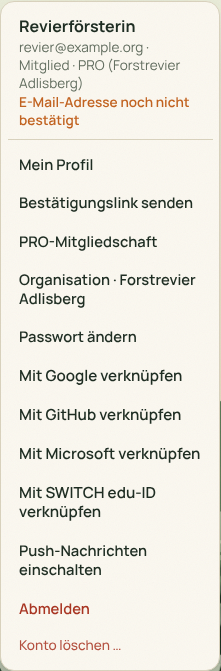
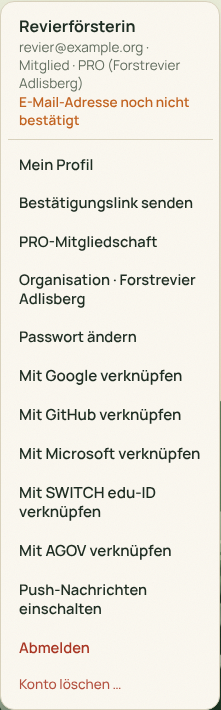
AGOV and private_key_jwt for OpenID Connect providers
- Provider "agov" (AGOV_ISSUER, AGOV_CLIENT_ID): an OpenID Connect provider
  with endpoints from discovery; off without an issuer, which comes from
  the registration in AGOV connect.
- Any OpenID Connect provider (edu-ID, AGOV, oidc) can authenticate with a
  private key instead of a secret (…_PRIVATE_KEY_FILE, PEM, RSA or EC
  P-256): a signed client assertion (RFC 7523, RS256/ES256, 60 s, jti) at
  the token endpoint. The public keys are published at
  /api/auth/jwks.json (kid = RFC 7638 thumbprint). A provider whose
  discovery does not offer private_key_jwt stops the flow with a message.
- …_ACR_VALUES requests an authentication quality; it is not enforced,
  since nothing in the app depends on it.
- Tests with a fake provider that verifies the assertion against the
  published JWKS (EC and RSA), acr_values, and the refusal cases; docs
  (AGOV setup with eligibility under EMBAG and what is still open, env
  variables, API, functions, privacy, roadmap, README) and screenshots.

Claude-Session: https://claude.ai/code/session_01W6iS2cPESEYEc9zQfDGaR4

diff --git a/src/oauth.js b/src/oauth.js
@@ -21,6 +21,15 @@
  *   ("nOAuth"): the address counts as verified only with the optional claim
  *   `xms_edov` (domain owner verified), which the app registration has to
  *   add to the ID token together with `email`.
+ * - AGOV (authentication service of Swiss authorities): an OpenID Connect
+ *   provider like the generic one, with its issuer from the configuration.
+ *
+ * Instead of a client secret, any OpenID Connect provider can take a private
+ * key (`privateKey`, PEM, RSA or EC P-256): the app then authenticates at the
+ * token endpoint with a signed assertion (`private_key_jwt`, RFC 7523) and
+ * publishes the public keys at /api/auth/jwks.json for the registration.
+ * `acrValues` asks for an authentication quality (`acr_values`); it is
+ * requested, not enforced, since nothing in the app depends on it.
  *
  * A provider is enabled when its client ID and secret are configured. The
  * `state` and the PKCE verifier travel in a short-lived httpOnly cookie bound
@@ -88,6 +97,8 @@ Object.assign(PROVIDERS, {
   eduid: { label: 'SWITCH edu-ID', issuer: 'https://login.eduid.ch/', scope: 'openid email profile', profile: oidcProfile },
   // Any further provider, e.g. the Microsoft account of an organisation or a Keycloak (issuer and label from the config).
   oidc: { label: 'OpenID Connect', scope: 'openid email profile', profile: oidcProfile },
+  // AGOV, the login of Swiss authorities: the issuer comes from the registration in AGOV connect.
+  agov: { label: 'AGOV', scope: 'openid profile email', profile: oidcProfile },
 });
 
 const truthy = (v) => v === true || v === 1 || v === '1' || v === 'true';
@@ -132,6 +143,32 @@ PROVIDERS.microsoft = {
 };
 
 const base64url = (buf) => Buffer.from(buf).toString('base64url');
+
+/** A signing key from PEM: algorithm, public JWK with its RFC 7638 thumbprint as `kid`. */
+function signingKey(pem) {
+  const key = crypto.createPrivateKey(pem);
+  const jwk = crypto.createPublicKey(key).export({ format: 'jwk' });
+  let alg;
+  if (jwk.kty === 'RSA') alg = 'RS256';
+  else if (jwk.kty === 'EC' && jwk.crv === 'P-256') alg = 'ES256';
+  else throw new Error('Privater Schlüssel: nur RSA oder EC P-256');
+  const members = jwk.kty === 'RSA' ? { e: jwk.e, kty: jwk.kty, n: jwk.n } : { crv: jwk.crv, kty: jwk.kty, x: jwk.x, y: jwk.y };
+  const kid = base64url(crypto.createHash('sha256').update(JSON.stringify(members)).digest());
+  return { key, alg, publicJwk: { ...members, kid, alg, use: 'sig' } };
+}
+
+/** A client assertion for the token endpoint (private_key_jwt). */
+function clientAssertion(provider, audience) {
+  const { key, alg, publicJwk } = provider.signing;
+  const t = Math.floor(Date.now() / 1000);
+  const header = base64url(JSON.stringify({ alg, kid: publicJwk.kid, typ: 'JWT' }));
+  const payload = base64url(JSON.stringify({
+    iss: provider.clientId, sub: provider.clientId, aud: audience, jti: base64url(crypto.randomBytes(16)), iat: t, exp: t + 60,
+  }));
+  const input = `${header}.${payload}`;
+  const signature = crypto.sign('sha256', Buffer.from(input), alg === 'ES256' ? { key, dsaEncoding: 'ieee-p1363' } : key);
+  return `${input}.${base64url(signature)}`;
+}
 const sameIssuer = (a, b) => String(a || '').replace(/\/+$/, '') === String(b || '').replace(/\/+$/, '');
 
 /**
@@ -142,9 +179,14 @@ const sameIssuer = (a, b) => String(a || '').replace(/\/+$/, '') === String(b ||
 function createOAuth({ providers = {}, publicUrl = null, fetchImpl = fetch } = {}) {
   const enabled = {};
   for (const [id, conf] of Object.entries(providers)) {
-    if (!PROVIDERS[id] || !conf?.clientId || !conf?.clientSecret) continue;
+    if (!PROVIDERS[id] || !conf?.clientId || !(conf.clientSecret || conf.privateKey)) continue;
     const p = { ...PROVIDERS[id], ...Object.fromEntries(Object.entries(conf).filter(([, v]) => v)), id };
     if (p.profile === oidcProfile && !p.issuer && !p.authorizeUrl) continue; // a generic provider needs its issuer
+    if (p.privateKey) {
+      if (p.profile !== oidcProfile) throw new Error(`${p.label}: Anmeldung mit Schlüssel nur bei OpenID-Connect-Anbietern`);
+      p.signing = signingKey(p.privateKey);
+    }
+    if (p.acrValues) p.extraParams = { ...p.extraParams, acr_values: p.acrValues };
     if (p.urls && !conf.authorizeUrl) Object.assign(p, p.urls(p));
     enabled[id] = p;
   }
@@ -165,6 +207,9 @@ function createOAuth({ providers = {}, publicUrl = null, fetchImpl = fetch } = {
           throw new Error(`${provider.label}: unvollständige Konfiguration des Anbieters`);
         }
         const methods = d.token_endpoint_auth_methods_supported;
+        if (provider.signing && Array.isArray(methods) && !methods.includes('private_key_jwt')) {
+          throw new Error(`${provider.label} unterstützt keine Anmeldung mit Schlüssel (private_key_jwt)`);
+        }
         return {
           ...provider,
           authorizeUrl: d.authorization_endpoint,
@@ -189,6 +234,9 @@ function createOAuth({ providers = {}, publicUrl = null, fetchImpl = fetch } = {
   }
 
   return {
+    /** Public keys for private_key_jwt, to register with the providers (JWKS). */
+    jwks: () => ({ keys: Object.values(enabled).filter((p) => p.signing).map((p) => p.signing.publicJwk) }),
+
     /** Public list for the login dialog. */
     list: () => Object.values(enabled).map((p) => ({ id: p.id, label: p.label })),
     get: (id) => (Object.hasOwn(enabled, id) ? enabled[id] : null),
@@ -237,7 +285,10 @@ function createOAuth({ providers = {}, publicUrl = null, fetchImpl = fetch } = {
         code_verifier: verifier,
       };
       const headers = { 'Content-Type': 'application/x-www-form-urlencoded', Accept: 'application/json', 'User-Agent': 'MyForrest' };
-      if (ep.basicAuth) {
+      if (ep.signing) {
+        form.client_assertion_type = 'urn:ietf:params:oauth:client-assertion-type:jwt-bearer';
+        form.client_assertion = clientAssertion(ep, ep.tokenUrl);
+      } else if (ep.basicAuth) {
         const enc = (v) => encodeURIComponent(v);
         headers.Authorization = `Basic ${Buffer.from(`${enc(provider.clientId)}:${enc(provider.clientSecret)}`).toString('base64')}`;
       } else {
@@ -259,16 +310,22 @@ function createOAuth({ providers = {}, publicUrl = null, fetchImpl = fetch } = {
  * Provider configuration from the environment: GOOGLE_, GITHUB_, MICROSOFT_,
  * EDUID_ and OIDC_CLIENT_ID / _CLIENT_SECRET; the generic provider also takes
  * OIDC_ISSUER and OIDC_LABEL (EDUID_ISSUER may point to a test system), and
- * MICROSOFT_TENANT limits the accounts (default 'common').
+ * MICROSOFT_TENANT limits the accounts (default 'common'). AGOV_ (and the
+ * other OpenID Connect providers) may take _PRIVATE_KEY_FILE (PEM) instead of
+ * the secret, and _ACR_VALUES.
  */
 function providersFromEnv(env = process.env) {
   const out = {};
   for (const id of Object.keys(PROVIDERS)) {
     const key = id.toUpperCase();
-    if (env[`${key}_CLIENT_ID`] && env[`${key}_CLIENT_SECRET`]) {
+    const keyFile = env[`${key}_PRIVATE_KEY_FILE`];
+    const privateKey = keyFile ? require('node:fs').readFileSync(keyFile, 'utf8') : undefined;
+    if (env[`${key}_CLIENT_ID`] && (env[`${key}_CLIENT_SECRET`] || privateKey)) {
       out[id] = {
         clientId: env[`${key}_CLIENT_ID`],
-        clientSecret: env[`${key}_CLIENT_SECRET`],
+        clientSecret: env[`${key}_CLIENT_SECRET`] || undefined,
+        privateKey,
+        acrValues: env[`${key}_ACR_VALUES`] || undefined,
         issuer: env[`${key}_ISSUER`] || undefined,
         label: env[`${key}_LABEL`] || undefined,
         tenant: env[`${key}_TENANT`] || undefined,

diff --git a/test/oauth.test.js b/test/oauth.test.js
@@ -353,3 +353,83 @@ test('Microsoft with a fixed tenant accepts only accounts of that organisation',
     assert.match((await browser(base).signIn('microsoft', 'outlook', challenges)).searchParams.get('auth_error'), /andere Anwendung oder Organisation/);
   }, { providers, fetch: fakeMicrosoft(claims) });
 });
+
+/**
+ * A fake AGOV-like provider that takes only private_key_jwt: it checks the
+ * assertion's signature against the JWKS the app publishes, its audience and lifetime.
+ */
+function fakeKeyProvider(issuer, jwksOf) {
+  const json = (body, status = 200) => new Response(JSON.stringify(body), { status, headers: { 'Content-Type': 'application/json' } });
+  const host = new URL(issuer).origin;
+  return (accounts, challenges) => async (url, init = {}) => {
+    const u = new URL(url);
+    if (u.href === `${issuer}/.well-known/openid-configuration`) {
+      return json({
+        issuer, authorization_endpoint: `${host}/authorize`, token_endpoint: `${host}/token`, userinfo_endpoint: `${host}/userinfo`,
+        token_endpoint_auth_methods_supported: ['private_key_jwt'],
+      });
+    }
+    if (u.pathname === '/token') {
+      const body = new URLSearchParams(init.body);
+      if (body.has('client_secret') || body.get('client_assertion_type') !== 'urn:ietf:params:oauth:client-assertion-type:jwt-bearer') {
+        return json({ error: 'invalid_client' }, 401);
+      }
+      const [h, p, sig] = body.get('client_assertion').split('.');
+      const header = JSON.parse(Buffer.from(h, 'base64url'));
+      const claims = JSON.parse(Buffer.from(p, 'base64url'));
+      const jwk = (await jwksOf()).keys.find((k) => k.kid === header.kid);
+      const ok = jwk && crypto.verify('sha256', Buffer.from(`${h}.${p}`),
+        header.alg === 'ES256' ? { key: crypto.createPublicKey({ key: jwk, format: 'jwk' }), dsaEncoding: 'ieee-p1363' } : crypto.createPublicKey({ key: jwk, format: 'jwk' }),
+        Buffer.from(sig, 'base64url'));
+      const now = Date.now() / 1000;
+      if (!ok || claims.iss !== 'agov-client' || claims.sub !== 'agov-client' || claims.aud !== `${host}/token` || !(claims.exp > now && claims.exp <= now + 120) || !claims.jti) {
+        return json({ error: 'invalid_client' }, 401);
+      }
+      const challenge = crypto.createHash('sha256').update(body.get('code_verifier') || '').digest('base64url');
+      if (!accounts[body.get('code')] || !challenges.has(challenge)) return json({ error: 'invalid_grant' }, 400);
+      return json({ access_token: `at-${body.get('code')}`, token_type: 'Bearer' });
+    }
+    if (u.pathname === '/userinfo') {
+      const a = accounts[String(init.headers?.Authorization || '').replace('Bearer at-', '')];
+      return a ? json({ sub: a.sub, email: a.email, email_verified: a.verified, given_name: a.given, family_name: a.family }) : json({}, 401);
+    }
+    return json({}, 404);
+  };
+}
+
+for (const [type, opts] of [['ec', { namedCurve: 'P-256' }], ['rsa', { modulusLength: 2048 }]]) {
+  test(`AGOV with private_key_jwt (${type}): signed assertion, published JWKS, acr_values`, async () => {
+    const { privateKey } = crypto.generateKeyPairSync(type, opts);
+    const pem = privateKey.export({ type: 'pkcs8', format: 'pem' });
+    const issuer = 'https://idp.agov.example';
+    let base;
+    const jwksOf = async () => (await fetch(`${base}/api/auth/jwks.json`)).json();
+    const providers = { agov: { clientId: 'agov-client', privateKey: pem, issuer, acrValues: 'urn:example:acr:hoch' } };
+    await withServer(EDU, async (b0, challenges) => {
+      base = b0;
+      const jwks = await jwksOf();
+      assert.equal(jwks.keys.length, 1);
+      assert.equal(jwks.keys[0].alg, type === 'ec' ? 'ES256' : 'RS256');
+      assert.ok(!('d' in jwks.keys[0]), 'only the public key');
+      const b = browser(base);
+      assert.ok((await b.me()).providers.some((p) => p.id === 'agov' && p.label === 'AGOV'));
+      const start = await b.req('/api/auth/oauth/agov');
+      assert.equal(new URL(start.headers.get('location')).searchParams.get('acr_values'), 'urn:example:acr:hoch');
+      assert.equal((await b.signIn('agov', 'lea', challenges)).searchParams.get('auth'), 'created');
+      assert.equal((await b.me()).user.name, 'Lea Muster');
+    }, { providers, fetch: fakeKeyProvider(issuer, jwksOf) });
+  });
+}
+
+test('without an issuer AGOV stays off; a key is refused where the provider does not take one', async () => {
+  const { privateKey } = crypto.generateKeyPairSync('ec', { namedCurve: 'P-256' });
+  const pem = privateKey.export({ type: 'pkcs8', format: 'pem' });
+  await withServer(EDU, async (base) => {
+    assert.ok(!(await browser(base).me()).providers.some((p) => p.id === 'agov'));
+  }, { providers: { agov: { clientId: 'agov-client', privateKey: pem } } });
+  // edu-ID's fake offers only client_secret_basic: with a key the flow stops with a message.
+  await withServer(EDU, async (base) => {
+    const start = await browser(base).req('/api/auth/oauth/eduid');
+    assert.match(new URL(start.headers.get('location'), base).searchParams.get('auth_error'), /keine Anmeldung mit Schlüssel/);
+  }, { providers: { eduid: { clientId: 'eid', privateKey: pem } }, fetch: fakeOidc('https://login.eduid.ch/') });
+});

diff --git a/scripts/screenshots/demo-server.js b/scripts/screenshots/demo-server.js
@@ -104,12 +104,13 @@ const app = createApp({
   dataDir: path.join(process.env.DEMO_DIR || path.join(__dirname, '.demo'), 'data'),
   weatherFetch,
   tileOptions: { precompute: false },
-  // Sign-in buttons for the screenshots; the demo never talks to Google, GitHub, Microsoft or Switch.
+  // Sign-in buttons for the screenshots; the demo never talks to Google, GitHub, Microsoft, Switch or AGOV.
   oauthProviders: {
     google: { clientId: 'demo', clientSecret: 'demo' },
     github: { clientId: 'demo', clientSecret: 'demo' },
     microsoft: { clientId: 'demo', clientSecret: 'demo' },
     eduid: { clientId: 'demo', clientSecret: 'demo' },
+    agov: { clientId: 'demo', clientSecret: 'demo', issuer: 'https://agov.example' },
   },
   mailer: { send: async () => ({ sent: true }) },
 });

diff --git a/src/routes/accounts.js b/src/routes/accounts.js
@@ -647,6 +647,11 @@ module.exports = function registerAccounts(app, ctx) {
   });
   const backTo = (res, params) => res.redirect(303, `/?${new URLSearchParams(params)}`);
 
+  // Public keys for providers that authenticate the app by a signed assertion (private_key_jwt).
+  app.get('/api/auth/jwks.json', (req, res) => {
+    res.set('Cache-Control', 'public, max-age=300').json(oauth.jwks());
+  });
+
   app.get('/api/auth/oauth/:provider', async (req, res) => {
     const provider = oauth.get(req.params.provider);
     if (!provider) return fail(res, 404, 'Diese Anmeldung ist nicht eingerichtet');

diff --git a/docs/installation.md b/docs/installation.md
@@ -52,6 +52,8 @@ trotzdem am richtigen Spot, nur ohne Overlay.
 | `GITHUB_CLIENT_ID`, `GITHUB_CLIENT_SECRET` | – | Aktiviert „Mit GitHub anmelden“ |
 | `MICROSOFT_CLIENT_ID`, `MICROSOFT_CLIENT_SECRET` | – | Aktiviert „Mit Microsoft anmelden“; `MICROSOFT_TENANT` (Standard `common`) schränkt ein: `consumers` (nur private Konten), `organizations` oder die ID eines Tenants |
 | `EDUID_CLIENT_ID`, `EDUID_CLIENT_SECRET` | – | Aktiviert „Mit SWITCH edu-ID anmelden“; `EDUID_ISSUER` (Standard `https://login.eduid.ch/`) für ein Testsystem |
+| `AGOV_ISSUER`, `AGOV_CLIENT_ID`, `AGOV_PRIVATE_KEY_FILE` | – | Aktiviert „Mit AGOV anmelden“ (siehe [unten](#agov)); `AGOV_ACR_VALUES` fordert eine Authentifizierungsqualität an |
+| `…_PRIVATE_KEY_FILE` | – | Bei allen OpenID-Connect-Diensten (`EDUID_`, `OIDC_`, `AGOV_`): privater Schlüssel (PEM, RSA oder EC P-256) statt Client-Secret, Anmeldung per `private_key_jwt` |
 | `OIDC_ISSUER`, `OIDC_CLIENT_ID`, `OIDC_CLIENT_SECRET`, `OIDC_LABEL` | – | Ein weiterer OpenID-Connect-Dienst (z. B. Microsoft Entra ID einer Organisation, Keycloak) mit eigener Beschriftung |
 | `ROUTER_URL`       | `https://brouter.de/brouter` | Routing-Dienst im Format von [BRouter](https://brouter.de) für den Wege-Magnet beim Zeichnen von Touren; leer (`ROUTER_URL=`) = aus, dann gerade Linien. Für den Betrieb einen [eigenen BRouter](../deploy/brouter/README.md) nehmen, z. B. `http://brouter:17777/brouter` |
 | `PRO_VALID_DAYS`   | `365`    | Wie lange eine PRO-Verifizierung gilt, bevor sie bestätigt werden muss |
@@ -85,7 +87,8 @@ MAIL_FROM='MyForrest <wald@example.org>' npm start
 ## Anmelden über Google, GitHub, Microsoft und SWITCH edu-ID
 
 Neben E-Mail und Passwort kann man sich mit einem Google-, GitHub- oder SWITCH-edu-ID-Konto anmelden oder
-registrieren, mit einem Microsoft-Konto und mit einem weiteren Dienst, der OpenID Connect spricht.
+registrieren, mit einem Microsoft-Konto, über AGOV (Behörden, siehe [unten](#agov)) und mit einem weiteren
+Dienst, der OpenID Connect spricht.
 Ein Anbieter erscheint im Anmeldedialog, sobald Client-ID und Secret gesetzt sind. Die Rücksprungadresse
 lautet `<PUBLIC_URL>/api/auth/oauth/<anbieter>/callback`; ohne `PUBLIC_URL` wird sie aus der Anfrage
 gebildet. Sie muss beim Anbieter genau so eingetragen sein.
@@ -125,6 +128,38 @@ EDUID_CLIENT_ID=… EDUID_CLIENT_SECRET=… npm start
 ```
 
 Für lokale Versuche geht auch `http://localhost:3000` als Rücksprungadresse.
+
+### AGOV
+
+[AGOV](https://www.agov.admin.ch/de) ist der Anmeldedienst der Schweizer Behörden. **Anschliessen dürfen sich
+Behörden und Organisationen, soweit das EMBAG oder ein Spezialgesetz es zulässt** – für MyForrest also etwa,
+wenn ein Forstamt, eine kantonale Fachstelle oder eine Hochschule die Instanz betreibt. Den Anschluss richtet
+man selbst im Portal *AGOV connect* ein, begleitet von der Bundeskanzlei.
+
+1. Schlüssel erzeugen (EC P-256; RSA geht auch) und als Secret ablegen:
+   ```bash
+   openssl ecparam -name prime256v1 -genkey -noout | openssl pkcs8 -topk8 -nocrypt -out agov.pem
+   ```
+2. In AGOV connect einen OIDC-Client anlegen: Redirect-URI `https://example.org/api/auth/oauth/agov/callback`,
+   Client-Authentisierung `private_key_jwt`, öffentlicher Schlüssel als JWKS-URL
+   `https://example.org/api/auth/jwks.json` (oder deren Inhalt einfügen), Claims E-Mail (mit
+   `email_verified`) und Name.
+3. Starten:
+   ```bash
+   AGOV_ISSUER=<Issuer aus AGOV connect> AGOV_CLIENT_ID=… AGOV_PRIVATE_KEY_FILE=/run/secrets/agov.pem \
+   AGOV_ACR_VALUES=<gewünschte Qualität> npm start
+   ```
+
+Die App liest die Endpunkte aus `<AGOV_ISSUER>/.well-known/openid-configuration`, prüft den Aussteller und
+meldet sich am Token-Endpunkt mit einer selbst signierten, 60 Sekunden gültigen Zusicherung an. Bietet ein
+Anbieter `private_key_jwt` nicht an, bricht die Anmeldung mit einer Meldung ab.
+
+**Noch offen:** Die technische Spezifikation (agov.ch/spec) und die Liste der Authentifizierungsqualitäten
+(agov.ch/aq) waren bei der Umsetzung nicht abrufbar. Issuer, die Werte für `AGOV_ACR_VALUES` und ob AGOV
+`email` mit `email_verified` liefert, kommen deshalb aus AGOV connect bzw. der Spezifikation. Liefert AGOV
+keine bestätigte Adresse, entsteht über AGOV kein neues Konto (Verknüpfen geht). Die angeforderte Qualität
+wird nicht nachgeprüft, weil in MyForrest nichts davon abhängt; wer das braucht, muss das `acr` des ID-Tokens
+prüfen. Gegen ein echtes AGOV ist die Anbindung nicht getestet.
 
 ## Externer Detektor
 

diff --git a/README.md b/README.md
@@ -259,7 +259,7 @@ leitet die **Organisation** und nimmt Kolleginnen und Kollegen auf; wer noch kei
 **Einladung per E-Mail** und registriert sich über den Link. Mitglieder sehen geschützte Funde, solange eine
 Person der Leitung verifiziert ist, und die Leitung lässt sich weitergeben.
 
-### 12. Konto: E-Mail, Google, GitHub, Microsoft oder SWITCH edu-ID
+### 12. Konto: E-Mail, Google, GitHub, Microsoft, SWITCH edu-ID oder AGOV
 
 <p>
   <img src="docs/screenshots/anmelden.png" width="38%" alt="Anmeldedialog mit Google, GitHub und E-Mail">
@@ -267,7 +267,7 @@ Person der Leitung verifiziert ist, und die Leitung lässt sich weitergeben.
   <img src="docs/screenshots/konto-loeschen.png" width="38%" alt="Konto löschen mit der Wahl, die Fotos anonym zu behalten oder zu löschen">
 </p>
 
-Ein **Konto** legt man mit E-Mail und Passwort an oder mit einem Klick über **Google**, **GitHub**, **Microsoft** oder **SWITCH edu-ID**
+Ein **Konto** legt man mit E-Mail und Passwort an oder mit einem Klick über **Google**, **GitHub**, **Microsoft** oder **SWITCH edu-ID** (bei Behörden auch **AGOV**)
 (links). Nach der Registrierung kommt ein **Bestätigungslink** per E-Mail; bis dahin erinnert das Konto-Menü
 daran (Mitte). Ein vergessenes Passwort lässt sich per Link **zurücksetzen**, im Menü **ändern**, und
 Google, GitHub, Microsoft oder SWITCH edu-ID lassen sich mit einem bestehenden Konto **verknüpfen**. Wer geht, **löscht das Konto**
@@ -321,7 +321,7 @@ Ein kurzer Überblick. Alle Details, auch zu den verwendeten Verfahren, stehen u
   Organisationen nehmen ihre Mitglieder selbst auf.
 - **[Fahrtmodus](docs/funktionen.md#fahrtmodus-dashcam-im-auto)**: das Handy als Dashcam im Auto, Route
   automatisch, Bilder an Spots und alle 150 m, Stillstand und Doppelte werden schon auf dem Gerät verworfen.
-- **[Konten und Moderation](docs/funktionen.md#konten-moderation-und-lizenzen)**: Konten mit Rollen, Anmeldung mit E-Mail (Bestätigungslink, Passwort ändern und zurücksetzen, Konto löschen, Profil mit den eigenen Fotos, Export der eigenen Daten) oder über Google, GitHub, Microsoft, SWITCH edu-ID und weitere OpenID-Connect-Dienste,
+- **[Konten und Moderation](docs/funktionen.md#konten-moderation-und-lizenzen)**: Konten mit Rollen, Anmeldung mit E-Mail (Bestätigungslink, Passwort ändern und zurücksetzen, Konto löschen, Profil mit den eigenen Fotos, Export der eigenen Daten) oder über Google, GitHub, Microsoft, SWITCH edu-ID, AGOV und weitere OpenID-Connect-Dienste,
   Lizenz pro Foto, Melden und Moderieren.
 
 ## Schnellstart

diff --git a/docs/api.md b/docs/api.md
@@ -73,7 +73,8 @@ Alle Routen liefern und erwarten JSON, sofern nicht anders angegeben. Den Aufbau
 | `POST`   | `/api/auth/password/change`  | Angemeldet: Passwort ändern (`{ current, password }`); beendet die anderen Sitzungen, Hinweis per E-Mail |
 | `GET`    | `/api/auth/password/reset?token=` | Prüft einen Link: `{ name, email }` oder 400 |
 | `POST`   | `/api/auth/password/reset`   | Neues Passwort setzen (`{ token, password }`): beendet alle Sitzungen und meldet an |
-| `GET`    | `/api/auth/oauth/:provider`  | Anmelden mit `google`, `github`, `microsoft`, `eduid` oder `oidc`: leitet zum Anbieter weiter |
+| `GET`    | `/api/auth/jwks.json`        | Öffentliche Schlüssel der App für `private_key_jwt` (JWKS), zum Hinterlegen bei AGOV o. Ä. |
+| `GET`    | `/api/auth/oauth/:provider`  | Anmelden mit `google`, `github`, `microsoft`, `eduid`, `agov` oder `oidc`: leitet zum Anbieter weiter |
 | `GET`    | `/api/auth/oauth/:provider/callback` | Rückkehr vom Anbieter: meldet an, legt ein Konto an oder verknüpft (mit Sitzung); leitet nach `/?auth=ok\|created\|linked` bzw. `/?auth_error=…` |
 | `DELETE` | `/api/auth/identities/:provider` | Anmeldung über einen Anbieter vom eigenen Konto trennen (nicht die einzige) |
 | `POST`   | `/api/tracks/parse`          | GPX, TCX, KML oder GeoJSON lesen (`{ text, filename }`), ohne zu speichern: Punkte, Name, Format, Länge |

diff --git a/docs/funktionen.md b/docs/funktionen.md
@@ -965,7 +965,11 @@ prüfen lassen muss, gibt es **Organisationen**:
   Diensten liest die App die Endpunkte aus deren Discovery-Dokument und prüft, dass der Aussteller stimmt.
   Bei Microsoft kommen die Angaben aus dem ID-Token (Empfänger, Ablauf, Aussteller und Tenant geprüft); die
   Adresse gilt nur mit dem Anspruch `xms_edov` als bestätigt, sonst könnte ein fremder Tenant fremde Adressen
-  vorgeben. Der Ablauf ist OAuth 2.0 mit PKCE; `state` und Verifier liegen in einem
+  vorgeben.
+- *AGOV und Anmeldung mit Schlüssel*: Für Instanzen, die eine Behörde betreibt, lässt sich AGOV anbinden, der
+  Anmeldedienst der Schweizer Behörden (siehe [Installation](installation.md#agov)). Bei AGOV und den anderen
+  OpenID-Connect-Diensten kann sich die App statt mit einem Client-Secret mit einem privaten Schlüssel
+  ausweisen (`private_key_jwt`); die öffentlichen Schlüssel stehen unter `/api/auth/jwks.json`. Der Ablauf ist OAuth 2.0 mit PKCE; `state` und Verifier liegen in einem
   kurzlebigen httpOnly-Cookie, ein fremder oder abgelaufener Rücksprung wird abgewiesen. Beim ersten Mal
   entsteht ein Konto ohne Passwort mit der vom Anbieter **bestätigten** E-Mail-Adresse (ohne bestätigte
   Adresse keine Registrierung); der Name kommt vom Anbieter und lässt sich durch eine Zahl eindeutig machen.

diff --git a/docs/architektur.md b/docs/architektur.md
@@ -69,7 +69,7 @@ src/metadata.js      Metadatensatz nach ISO 19139 und GM03 (ISO19139.che) für g
 src/routes/ogc-tiles.js  OGC API – Tiles (WebMercatorQuad und SwissLV95) und MapLibre-Stil
 src/auth.js          Konten, Passwort-Hashing (scrypt), Sitzungen, Rate-Limits (dauerhaft in SQLite)
 src/orgs.js          Organisationen mit Leitung und Mitgliedern; gelten, solange eine Person der Leitung verifiziert ist
-src/oauth.js         Anmelden mit Google, GitHub, Microsoft, SWITCH edu-ID und weiteren OpenID-Connect-Diensten (OAuth 2.0 mit PKCE, Discovery), ohne Abhängigkeiten
+src/oauth.js         Anmelden mit Google, GitHub, Microsoft, SWITCH edu-ID, AGOV und weiteren OpenID-Connect-Diensten (OAuth 2.0 mit PKCE, Discovery, private_key_jwt), ohne Abhängigkeiten
 src/mail.js          E-Mail-Versand über SMTP (TLS/STARTTLS, AUTH PLAIN) für Bestätigungs- und Reset-Links
 src/moderation.js    Lizenzen, Meldungen, Ausblenden und Protokoll
 src/routes/accounts.js  Routen für Konten und Moderation, CSRF-Schutz, Rechte auf Fotos

diff --git a/docs/roadmap.md b/docs/roadmap.md
@@ -81,4 +81,4 @@ Aus früheren Versionen dieser Roadmap:
 - Geodienste: OGC API – Features und Tiles (auch im LV95-Kachelgitter, vorberechnet, PMTiles/MBTiles),
   Vektorkarten, QGIS Server, Metadaten für geocat.ch (GM03)
 - Betrieb mit Docker Compose und Kubernetes (podman-Startskript)
-- Konten: Anmelden mit Google und GitHub, E-Mail bestätigen, Passwort zurücksetzen und ändern, Konto löschen, Profilseite mit eigenen Fotos, Anzeigename und E-Mail-Adresse ändern, Export der eigenen Daten, Microsoft, SWITCH edu-ID und weitere OpenID-Connect-Dienste, dauerhafte Rate-Limits
+- Konten: Anmelden mit Google und GitHub, E-Mail bestätigen, Passwort zurücksetzen und ändern, Konto löschen, Profilseite mit eigenen Fotos, Anzeigename und E-Mail-Adresse ändern, Export der eigenen Daten, Microsoft, SWITCH edu-ID, AGOV und weitere OpenID-Connect-Dienste, dauerhafte Rate-Limits

diff --git a/docs/betrieb.md b/docs/betrieb.md
@@ -7,7 +7,7 @@
   Sitzungs-Cookie erhält `Secure`, wenn die Anfrage über HTTPS bzw. `X-Forwarded-Proto: https` kommt).
 - Mit Anmeldung über Google, GitHub, Microsoft, SWITCH edu-ID oder einen weiteren Dienst erhalten diese Dienste beim Anmelden die Information, dass sich
   jemand bei dieser Instanz anmeldet; MyForrest speichert vom Anbieter nur die Konto-Kennung, die E-Mail-Adresse
-  und den Namen. Client-Secrets und `SMTP_URL` (enthält das Mail-Passwort) gehören in Secrets, nicht in
+  und den Namen. Client-Secrets, private Schlüssel (`…_PRIVATE_KEY_FILE`) und `SMTP_URL` (enthält das Mail-Passwort) gehören in Secrets, nicht in
   Repository oder ConfigMap.
 - Bilder werden unverändert gespeichert und ausgeliefert, **inklusive EXIF-Daten** (GPS,
   Kameramodell). Ausnahmen sind die Vorschaubilder und die aus HEIC umgewandelten JPEGs, die keine
